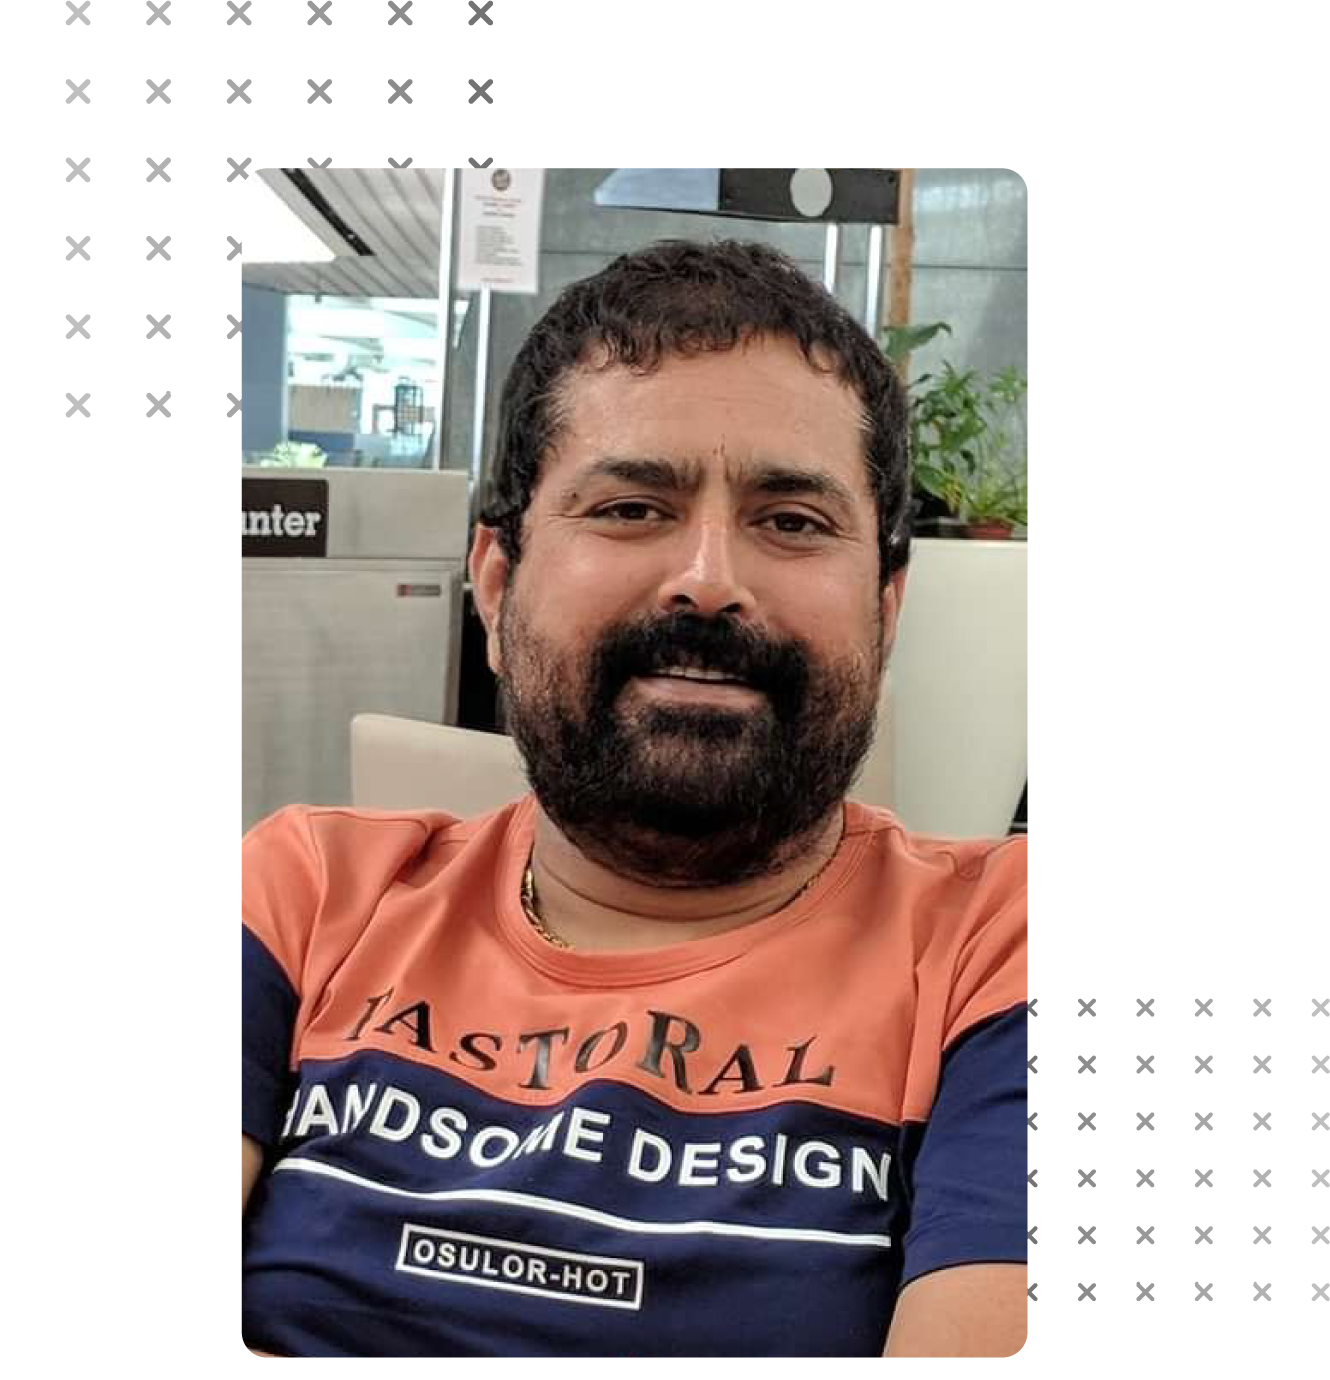
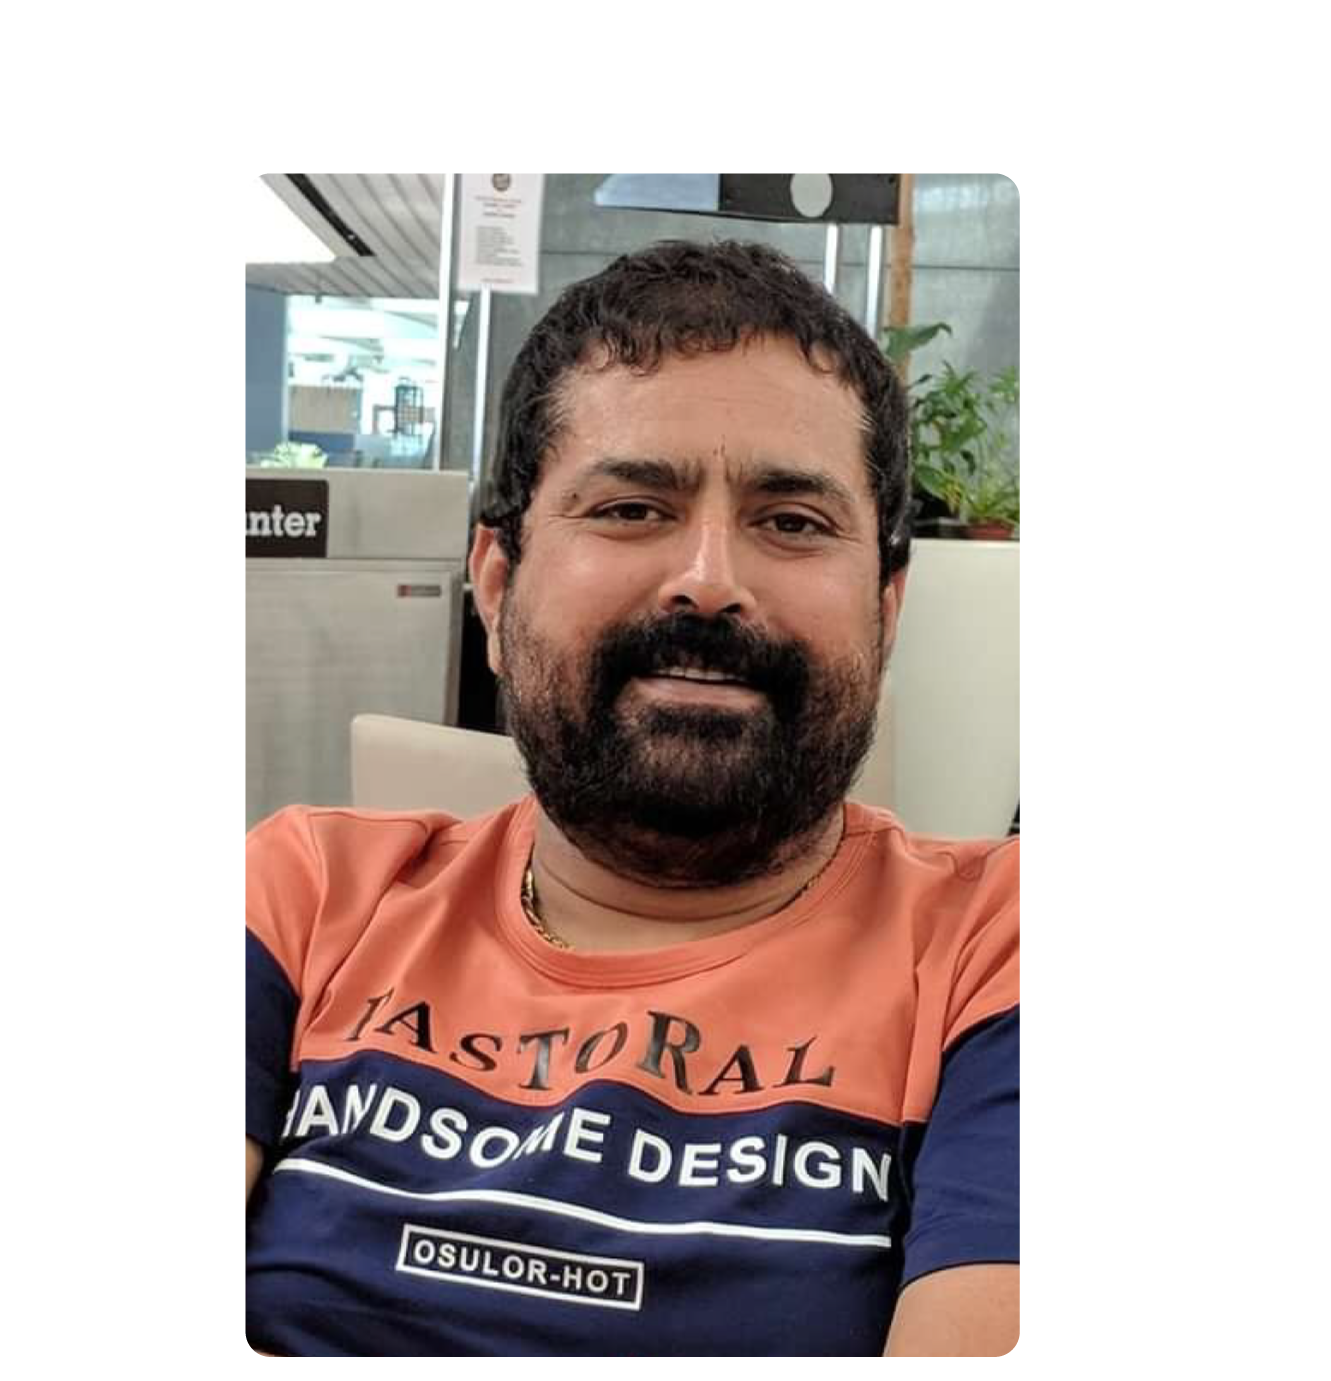
major fixes #1

diff --git a/src/sections/support.js b/src/sections/support.js
@@ -1,45 +1,41 @@
 /** @jsxRuntime classic */
 /** @jsx jsx */
-import { jsx, Box, Container, Heading, Text } from 'theme-ui';
+import { jsx, Box, Container, Heading, Flex, Text } from 'theme-ui';
 import Image from 'components/image';
 import illustration from 'assets/images/support-2.png';
-
-const data = [
-  {
-    id: 1,
-    title: 'Email client support',
-    text: `Ultimate access to all credit popular exercises and assessments materials`,
-  },
-  {
-    id: 2,
-    title: 'Live ticket support',
-    text: `Total assessment corrections with live support tickets download access system`,
-  },
-];
+import SectionHeading from 'components/section-heading';
 
 const Support = () => {
   return (
     <section id="support" sx={styles.section}>
       <Container>
-        <div sx={styles.grid}>
+        
           <div sx={styles.content}>
-            <div sx={styles.heading}>
-              <Heading sx={styles.title}>
-                About Us
-              </Heading>
+           
+            <SectionHeading
+          sx={styles.heading}
+          
+          title="About Us"
+        />
               <Text as="p" sx={styles.summary}>
-              <b>Sri Ram Construction</b> was founded in the year <b>1995</b> by <b>Sri Sanjay Kumar</b>. He foresaw the development of Ranchi from a budding city to a hub of development, and even before many had thought of it, he put his dreams into action, and laid the foundation of <b>Sri Ram Construction</b>.</Text>
-              <Text as="p"><b>As he says,</b></Text>
-              <Text as="p" sx={styles.summary}>
-              <b>"Our vision gives us a sense of direction and destination to be respectable building contractors delivering beyond expectations, always. It captures our aspiration of being the best at everything we do. Our mission is to procure projects at competitive pricing, provide safe working conditions and deliver quality work within reasonable time."</b>
+              <b>Sri Ram Construction was founded in the year 1995 by Sri Sanjay Kumar. He foresaw the development of Ranchi from a budding city to a hub of development, and even before many had thought of it, he put his dreams into action, and laid the foundation of Sri Ram Construction.
+              <br />With over 24 years of experience in construction and real estate development, Sanjay Kumar, as proprietor of Sri Ram Construction has been at the forefront of the real estate industry, through building world class residential and commercial projects. As a construction and contracting company, Sri Ram Construction successfully executed many commercial and residential project as well as Civil and Electrical work in Jharkhand and Bihar.
+              <br />To undertake this ever expanding work, Sri Ram Construction today, is backed by a professional and competent team constantly growing workforce of currently over fifty, experienced Engineers, Skilled Supervisor, Civil Foreman, Architects, Chartered Accountant, MBA, etc.</b>
               </Text>
               
+              
             </div>
-          </div>
-          <Box as="figure" sx={styles.illustration} className="illustration">
-            <Image src={illustration} alt="illustration" />
-          </Box>
-        </div>
+          
+         
+            <Flex as="figure" sx={styles.illustration}>
+            <Image src={illustration} alt="illustration" width="300px" alignItems="center"/>
+          </Flex>
+          <div>
+          <Box sx={styles.inner}>
+          <Text as="h3" sx={styles.summary}>
+              <b>"Our vision gives us a sense of direction and destination to be respectable building contractors delivering beyond expectations, always. It captures our aspiration of being the best at everything we do. Our mission is to procure projects at competitive pricing, provide safe working conditions and deliver quality work within reasonable time."</b>
+              </Text></Box></div>
+        
       </Container>
     </section>
   );
@@ -76,7 +72,7 @@ const styles = {
     gridColumn: [null, null, null, '1/3', 'unset'],
     maxWidth: [null, null, null, 420, 'none'],
     mx: [null, null, null, 'auto', 'unset'],
-    textAlign: ['center', null, null, 'left'],
+    textAlign: ['center', null, null, 'center'],
     h2: {
       color: 'heading',
       fontFamily: 'headingAlt',
@@ -100,8 +96,34 @@ const styles = {
       textAlign: ['center', null, null, null, 'left'],
     },
   },
-  illustration: {
+  inner: {
+    padding: ['45px 30px 50px', '45px 50px', '45px 50px', '45px 50px', '45px 50px', '45px 70px'],
+    mt: [0, null, null, null, null],
+    position: 'relative',
+    zIndex: '10',
+    backgroundColor: 'primary',
+    //backgroundImage: ['none', null, null, null, null, `url(${BgShape})`],
+    backgroundRepeat: 'no-repeat',
+    backgroundPosition: '60% center',
+    borderRadius: '10px',
     display: 'flex',
     alignItems: 'center',
+    textAlign: ['center', null, null, 'left'],
+    flexDirection: ['column', null, null, 'row'],
+    justifyContent: ['center', null, null, 'space-between'],
   },
+  illustration: {
+    alignItems: 'center',
+    justifyContent: 'center',
+    marginTop: [3, null, null, 0],
+    marginBottom: [3,null,null,0],
+  },
+  p: {
+      color: 'textSecondary',
+      fontSize: ['13px', null, null, 2, '15px', 2],
+      lineHeight: [1.86, null, null, null, 1.86, 2.25],
+      maxWidth: 470,
+      m: [null, null, null, '20px auto 0', '15px 0 0', null, 'unset'],
+      textAlign: ['center', null, null, null, 'left'],
+    },
 };

diff --git a/src/components/footer/footer.js b/src/components/footer/footer.js
@@ -29,10 +29,10 @@ export default function Footer() {
               }
             }>
               <b>Address:</b><br />
-              <i>2nd Floor, Ganpati Complex</i><br />
-              <i>Opp. Sidhu Kanhu Park</i><br />
-              <i>Ranchi College Road</i><br />
-              <i>Ranchi, PIN: 834008</i><br />
+              2nd Floor, Ganpati Complex<br />
+              Opp. Sidhu Kanhu Park<br />
+              Ranchi College Road<br />
+              Ranchi, PIN: 834008<br />
             </Text></Box>
             <Box as="ul" sx={styles.footer}>
             <Text as="p" sx={
@@ -45,9 +45,9 @@ export default function Footer() {
             </Text></Box>
           
         <Box sx={styles.left}>
-          <Logo />
+         
           <Text as="p">
-            &copy; {new Date().getFullYear()} All right reserved
+            Sri Ram Construction &copy; {new Date().getFullYear()} All right reserved
             
           </Text>
         </Box>

diff --git a/src/sections/banner.js b/src/sections/banner.js
@@ -21,7 +21,7 @@ const Banner = () => {
             </Text>
            <br />
            
-            <SubscriptionForm sx={styles.subscriptionForm} />
+            
           </Box>
         </Box>
       </Container>
